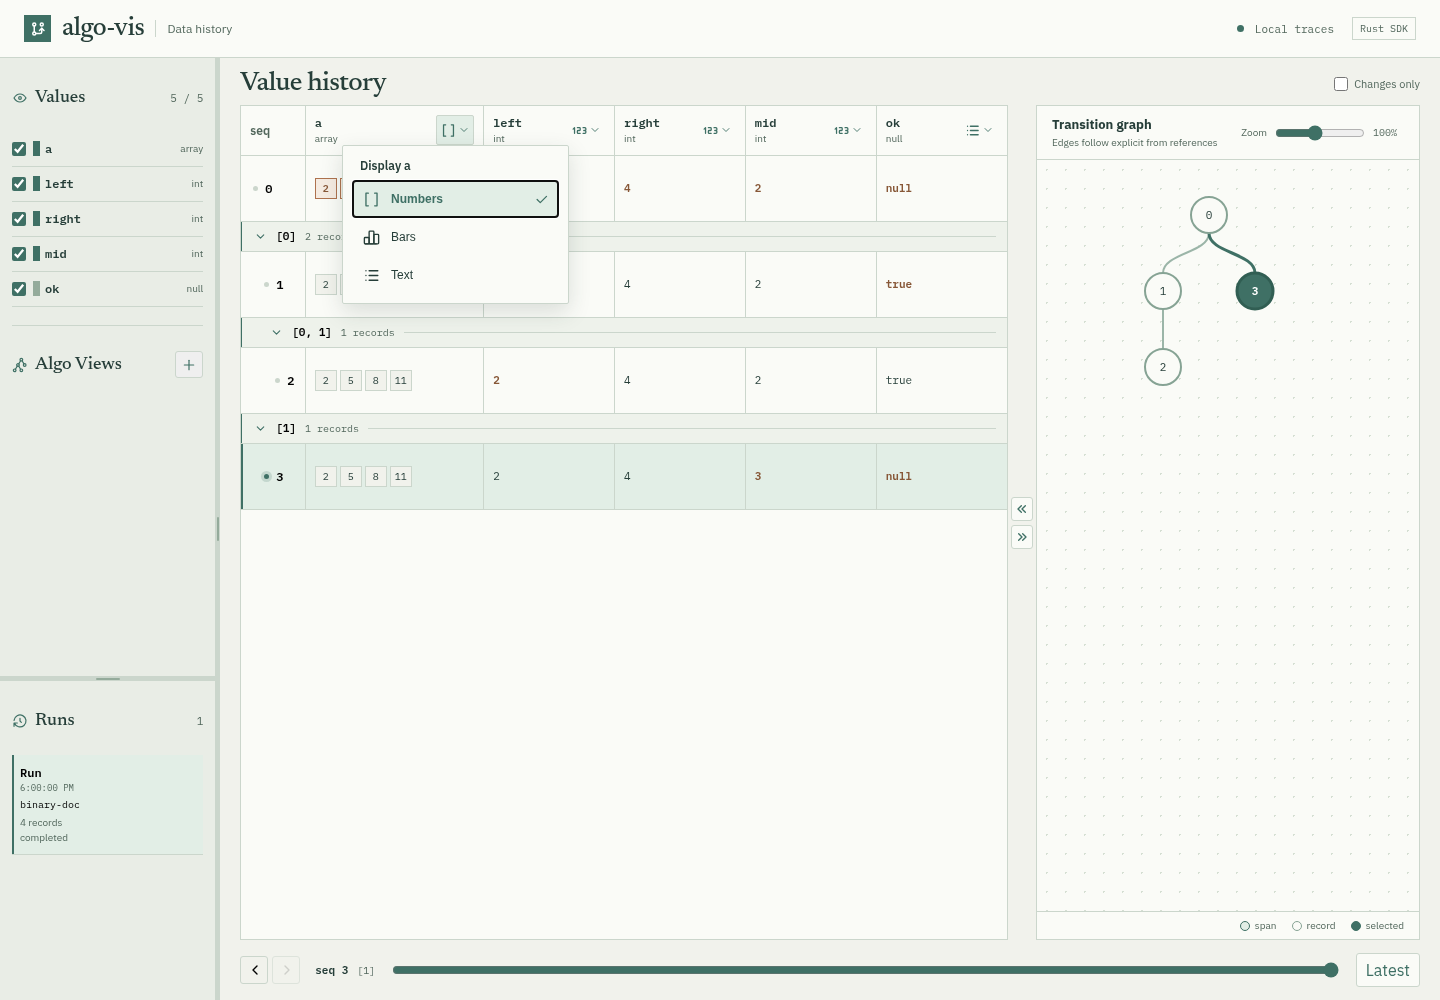
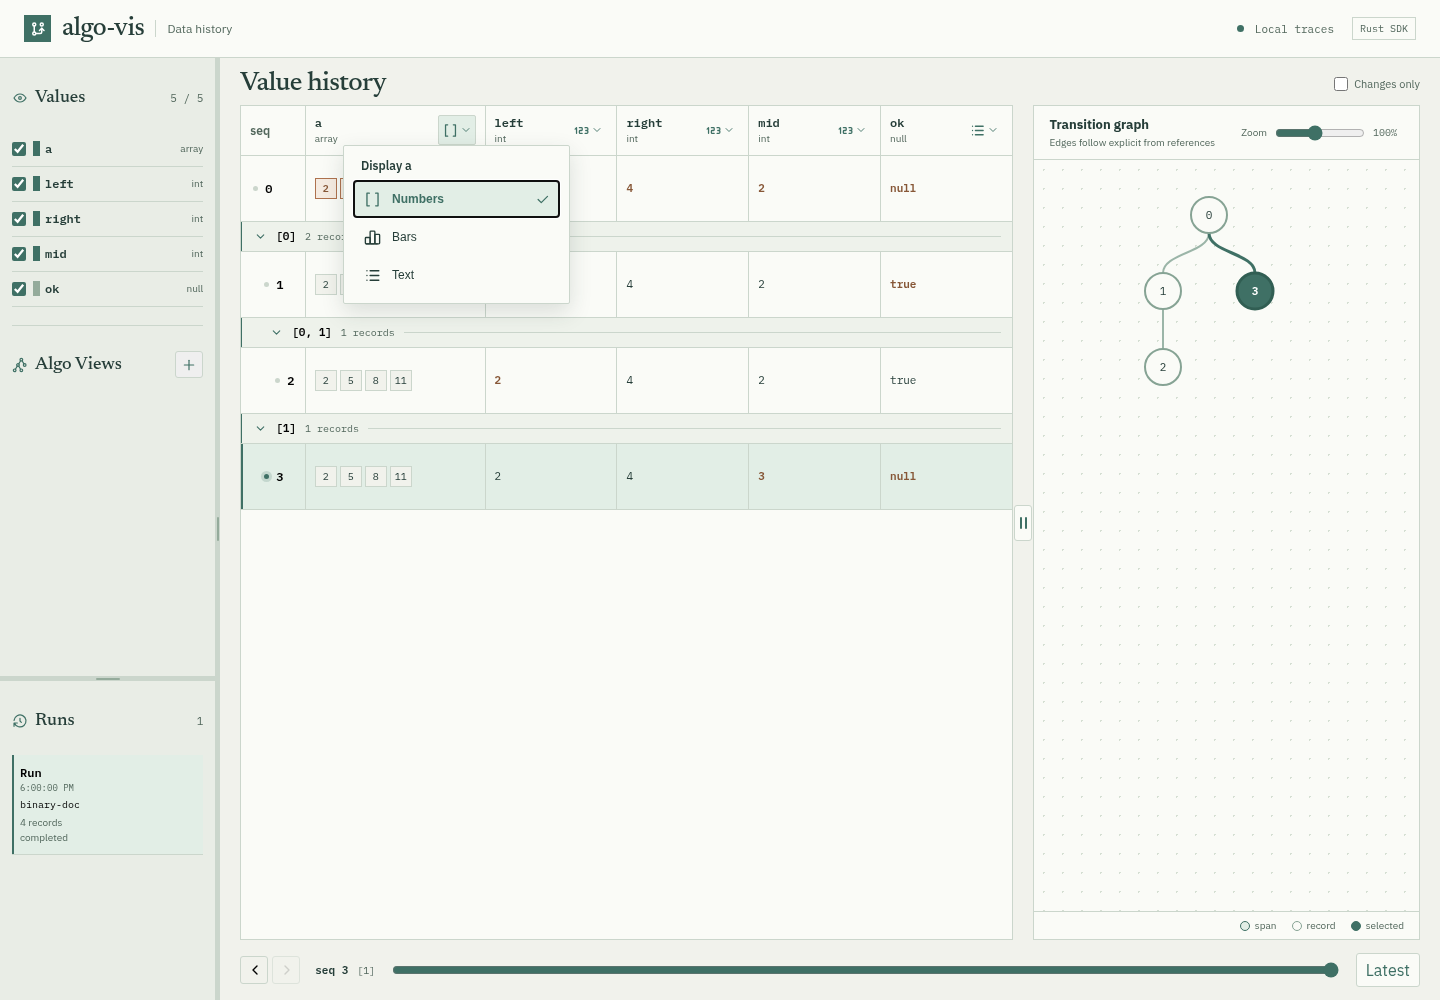
Allow history panes to collapse with draggable divider

diff --git a/tests/live.spec.ts b/tests/live.spec.ts
@@ -151,7 +151,7 @@ test('table and graph stay side by side and share record focus', async ({ page }
   await expect(page.locator('.dg-playback strong')).toHaveText('seq 1');
 });
 
-test('history divider resizes and can push either pane aside', async ({ page }) => {
+test('history divider can collapse and restore either pane', async ({ page }) => {
   await page.route('**/api/runs', (route) => route.fulfill({ json: { runs: [runs[0]] } }));
   await page.goto('/');
   const tablePanel = page.locator('.dg-history-table-panel');
@@ -159,21 +159,40 @@ test('history divider resizes and can push either pane aside', async ({ page }) 
   const divider = page.getByRole('separator', { name: 'Resize table and graph' });
   const width = (locator: typeof tablePanel) =>
     locator.evaluate((element) => element.getBoundingClientRect().width);
+  const dragDivider = async (targetX: number) => {
+    const bounds = await divider.boundingBox();
+    await page.mouse.move(bounds!.x + bounds!.width / 2, bounds!.y + 70);
+    await page.mouse.down();
+    await page.mouse.move(targetX, bounds!.y + 70, { steps: 8 });
+    await page.mouse.up();
+  };
 
   expect((await width(tablePanel)) / (await width(graphPanel))).toBeCloseTo(2, 0);
-  await page.getByRole('button', { name: 'Expand graph' }).click();
-  await expect.poll(() => width(graphPanel)).toBeGreaterThan(await width(tablePanel));
-  await page.getByRole('button', { name: 'Expand graph' }).click();
-  await expect.poll(() => width(tablePanel)).toBeGreaterThan(await width(graphPanel));
-  await page.getByRole('button', { name: 'Expand table' }).click();
-  expect(await width(tablePanel)).toBeGreaterThan((await width(graphPanel)) * 4);
+  await expect(page.locator('.dg-history-handle-mark')).toBeVisible();
+  await expect(page.getByRole('button', { name: /Expand (table|graph)/ })).toHaveCount(0);
+  await expect(divider).toHaveAttribute('aria-valuemin', '0');
+  await expect(divider).toHaveAttribute('aria-valuemax', '1');
 
-  const bounds = await divider.boundingBox();
-  await page.mouse.move(bounds!.x + bounds!.width / 2, bounds!.y + 70);
-  await page.mouse.down();
-  await page.mouse.move(bounds!.x - 180, bounds!.y + 70, { steps: 5 });
-  await page.mouse.up();
+  const layout = await page.locator('.dg-history-layout').boundingBox();
+  await dragDivider(layout!.x + 1);
+  await expect.poll(() => width(tablePanel)).toBeLessThan(2);
+  await expect(page.locator('.dg-history-handle-mark')).toBeVisible();
+
+  await dragDivider(layout!.x + layout!.width / 2);
+  await expect.poll(() => width(tablePanel)).toBeGreaterThan(200);
+
+  await dragDivider(layout!.x + layout!.width - 1);
+  await expect.poll(() => width(graphPanel)).toBeLessThan(2);
+  await expect(page.locator('.dg-history-handle-mark')).toBeVisible();
+
+  await dragDivider(layout!.x + layout!.width / 2);
   await expect.poll(() => width(graphPanel)).toBeGreaterThan(200);
+
+  await divider.focus();
+  await page.keyboard.press('Home');
+  await expect.poll(() => width(tablePanel)).toBeLessThan(2);
+  await page.keyboard.press('End');
+  await expect.poll(() => width(graphPanel)).toBeLessThan(2);
 });
 
 test('history panes stack with usable graph space on a narrow screen', async ({ page }) => {
@@ -188,6 +207,23 @@ test('history panes stack with usable graph space on a narrow screen', async ({ 
   expect(graph!.height).toBeGreaterThan(350);
   await expect(page.locator('.dg-graph-node.is-selected')).toBeVisible();
   expect(await page.evaluate(() => document.documentElement.scrollWidth)).toBe(620);
+
+  const divider = page.getByRole('separator', { name: 'Resize table and graph' });
+  await divider.scrollIntoViewIfNeeded();
+  const dragDivider = async (targetY: number) => {
+    const bounds = await divider.boundingBox();
+    await page.mouse.move(bounds!.x + bounds!.width / 2, bounds!.y + bounds!.height / 2);
+    await page.mouse.down();
+    await page.mouse.move(bounds!.x + bounds!.width / 2, targetY, { steps: 8 });
+    await page.mouse.up();
+  };
+  const layoutBounds = await layout.boundingBox();
+  const tableHeight = () =>
+    page.locator('.dg-history-table-panel').evaluate((element) => element.getBoundingClientRect().height);
+  await dragDivider(layoutBounds!.y + 1);
+  await expect.poll(tableHeight).toBeLessThan(2);
+  await dragDivider(layoutBounds!.y + layoutBounds!.height / 2);
+  await expect.poll(tableHeight).toBeGreaterThan(200);
 });
 
 test('the seq slider keeps the selected table row in view', async ({ page }) => {

diff --git a/src/LiveWorkspace.tsx b/src/LiveWorkspace.tsx
@@ -9,10 +9,6 @@ import {
   IconChevronDown,
   IconChevronLeft,
   IconChevronRight,
-  IconChevronsDown,
-  IconChevronsLeft,
-  IconChevronsRight,
-  IconChevronsUp,
   IconCode,
   IconEye,
   IconGitBranch,
@@ -213,12 +209,6 @@ export function LiveWorkspace(props: { repository?: RunRepository }) {
     media.addEventListener('change', update);
     onCleanup(() => media.removeEventListener('change', update));
   });
-  const pushHistoryDivider = (side: 'table' | 'graph') => {
-    const pushed = side === 'graph' ? historySizes()[0] < 0.2 : historySizes()[1] < 0.2;
-    setHistorySizes(
-      pushed ? (stacked() ? [0.5, 0.5] : [2 / 3, 1 / 3]) : side === 'graph' ? [0.12, 0.88] : [0.88, 0.12],
-    );
-  };
   let tableViewport: HTMLDivElement | undefined;
   const selectRecord = (seq: Seq | null) => {
     const frame = frames().find((item) => item.seq === seq);
@@ -529,7 +519,12 @@ export function LiveWorkspace(props: { repository?: RunRepository }) {
                     sizes={historySizes()}
                     onSizesChange={setHistorySizes}
                   >
-                    <Resizable.Panel minSize={0.12} class="dg-history-table-panel">
+                    <Resizable.Panel
+                      minSize={0.12}
+                      collapsible
+                      collapsedSize={0}
+                      class="dg-history-table-panel"
+                    >
                       <div class="dg-table-scroll" ref={tableViewport}>
                         <table class="dg-history-table">
                           <thead>
@@ -586,34 +581,24 @@ export function LiveWorkspace(props: { repository?: RunRepository }) {
                     </Resizable.Panel>
                     <div class="dg-history-divider">
                       <Resizable.Handle
-                        as="div"
+                        as="button"
+                        type="button"
                         class="dg-history-grip"
                         aria-label="Resize table and graph"
+                        aria-valuemin={0}
+                        aria-valuemax={1}
                       />
-                      <div class="dg-history-actions">
-                        <button
-                          type="button"
-                          aria-label="Expand graph"
-                          title="Expand graph"
-                          onClick={() => pushHistoryDivider('graph')}
-                        >
-                          <Show when={stacked()} fallback={<IconChevronsLeft size="16" />}>
-                            <IconChevronsUp size="16" />
-                          </Show>
-                        </button>
-                        <button
-                          type="button"
-                          aria-label="Expand table"
-                          title="Expand table"
-                          onClick={() => pushHistoryDivider('table')}
-                        >
-                          <Show when={stacked()} fallback={<IconChevronsRight size="16" />}>
-                            <IconChevronsDown size="16" />
-                          </Show>
-                        </button>
-                      </div>
+                      <span class="dg-history-handle-mark" aria-hidden="true">
+                        <i />
+                        <i />
+                      </span>
                     </div>
-                    <Resizable.Panel minSize={0.12} class="dg-history-graph-panel">
+                    <Resizable.Panel
+                      minSize={0.12}
+                      collapsible
+                      collapsedSize={0}
+                      class="dg-history-graph-panel"
+                    >
                       <div class="dg-graph-layout">
                         <RelationGraph
                           graph={graph()}

diff --git a/src/workspace.css b/src/workspace.css
@@ -445,7 +445,7 @@
   position: relative;
   z-index: 3;
   flex: none;
-  width: 28px;
+  width: 20px;
   background: var(--fn-canvas);
 }
 .dg-history-grip {
@@ -453,37 +453,48 @@
   inset: 0;
   width: 100%;
   height: 100%;
+  padding: 0;
   border: 0;
+  background: transparent;
   cursor: col-resize;
+}
+.dg-history-grip:focus-visible {
+  outline: none;
+}
+.dg-history-divider:has(.dg-history-grip:focus-visible) .dg-history-handle-mark {
+  outline: 2px solid var(--dg-accent);
+  outline-offset: 2px;
 }
 .dg-history-divider:hover,
 .dg-history-divider:has(.dg-history-grip[data-dragging]) {
   background: var(--fn-soft);
 }
-.dg-history-actions {
+.dg-history-handle-mark {
   position: absolute;
   top: 50%;
   left: 50%;
   display: flex;
-  flex-direction: column;
   align-items: center;
   justify-content: center;
-  gap: 4px;
+  gap: 3px;
+  width: 18px;
+  height: 36px;
   transform: translate(-50%, -50%);
-}
-.dg-history-actions button {
-  display: grid;
-  place-items: center;
-  width: 22px;
-  height: 24px;
-  padding: 0;
+  pointer-events: none;
   border: 1px solid var(--fn-rule);
   border-radius: 3px;
   background: var(--fn-sheet);
-  color: var(--fn-action);
-  cursor: pointer;
 }
-.dg-history-actions button:hover {
+.dg-history-handle-mark i {
+  display: block;
+  width: 2px;
+  height: 12px;
+  border-radius: 1px;
+  background: var(--fn-action);
+}
+.dg-history-divider:hover .dg-history-handle-mark,
+.dg-history-divider:has(.dg-history-grip[data-dragging]) .dg-history-handle-mark {
+  border-color: var(--fn-action);
   background: var(--fn-soft);
 }
 .dg-table-scroll {
@@ -1080,13 +1091,13 @@
   }
   .dg-history-divider {
     width: 100%;
-    height: 28px;
+    height: 20px;
   }
   .dg-history-grip {
     cursor: row-resize;
   }
-  .dg-history-actions {
-    flex-direction: row;
+  .dg-history-handle-mark {
+    transform: translate(-50%, -50%) rotate(90deg);
   }
 }
 @media (max-width: 620px) {

diff --git a/README.md b/README.md
@@ -18,7 +18,7 @@ cargo run --manifest-path examples/Cargo.toml --bin abc007-c < examples/fixtures
 cargo run --manifest-path examples/Cargo.toml --bin dfs
 ```
 
-[http://127.0.0.1:4317/](http://127.0.0.1:4317/) を開くと、実行ごとに独立した履歴が表示されます。左上で値の列を選び、列見出しのアイコンで表示形式を変更します。Algo Viewを追加すると必要な値をクリックで割り当てられます。TableとGraphは左右に並び、共通のseq選択に連動します。境界はドラッグまたは矢印ボタンで幅を変えられます。`from` があればその遷移辺、なければspan IDの接頭辞階層をGraphに表示します。[DFSサンプルの見方](docs/local-walkthrough.md#4-dfs-の呼び出し木を確認する)も参照してください。
+[http://127.0.0.1:4317/](http://127.0.0.1:4317/) を開くと、実行ごとに独立した履歴が表示されます。左上で値の列を選び、列見出しのアイコンで表示形式を変更します。Algo Viewを追加すると必要な値をクリックで割り当てられます。TableとGraphは左右に並び、共通のseq選択に連動します。中央の二本線をドラッグして幅を変え、片側を完全に畳むこともできます。`from` があればその遷移辺、なければspan IDの接頭辞階層をGraphに表示します。[DFSサンプルの見方](docs/local-walkthrough.md#4-dfs-の呼び出し木を確認する)も参照してください。
 
 単体の `.rs` ファイルはCLIからも実行できます。サーバー未起動なら自動で立ち上がり、実行後もWeb UIを開ける状態を維持します。
 
